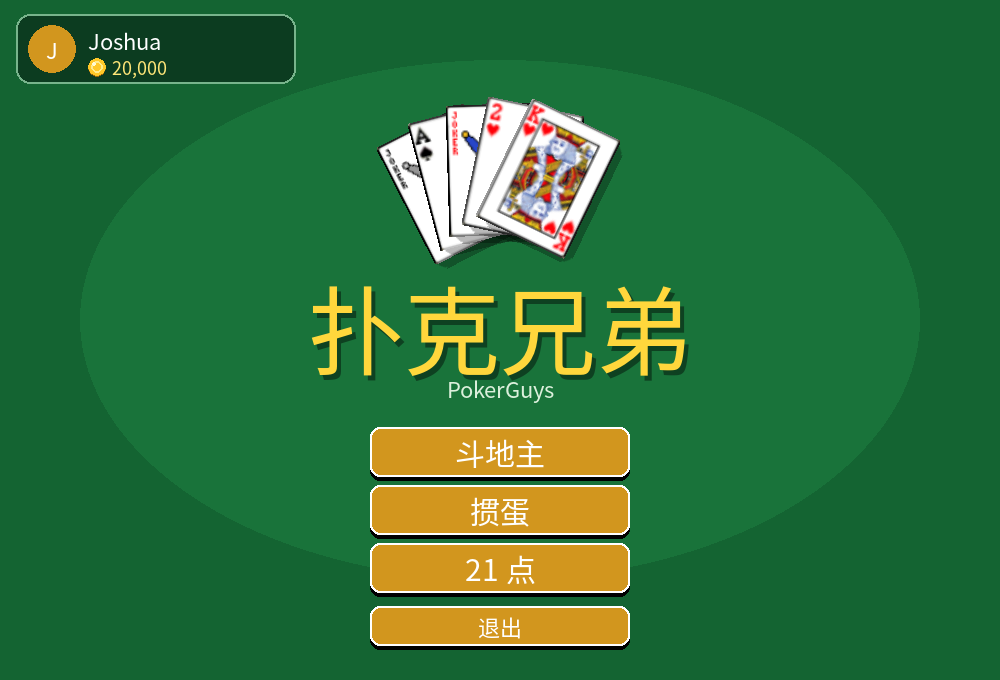
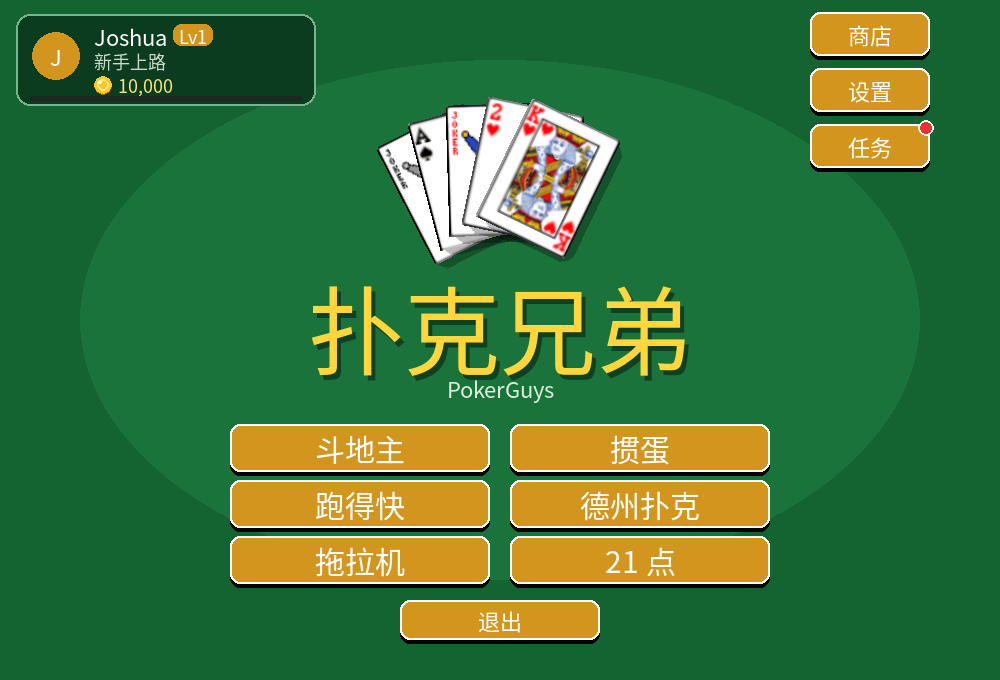
README：1.3.0 —— 新玩法跑得快 / 德州扑克 / 拖拉机，房间号远程联机，任务成就，托管回放设置
Claude-Session: https://claude.ai/code/session_01Fzpb35NiXPgBRbh9vYEudx

Changed region(s): [[0.217, 0.6176, 0.775, 0.9574], [0.806, 0.0, 0.93, 0.2779], [0.0, 0.0, 0.341, 0.1544]]

diff --git a/README.md b/README.md
@@ -4,9 +4,9 @@
 
 # 扑克兄弟 PokerGuys
 
-**斗地主 · 掼蛋 · 21 点 —— 一个装下三种玩法的扑克游戏**
+**斗地主 · 掼蛋 · 跑得快 · 德州扑克 · 升级（拖拉机）· 21 点 —— 六种玩法一个游戏**
 
-单机打电脑，或者和同一个 WiFi 下的朋友联机
+单机打电脑，或者用房间号和天南地北的朋友联机
 
 [![最新版本](https://img.shields.io/github/v/release/JoshuaMaoJH/PokerGuys-releases?label=最新版本&color=d4a017)](https://github.com/JoshuaMaoJH/PokerGuys-releases/releases/latest)
 [![下载次数](https://img.shields.io/github/downloads/JoshuaMaoJH/PokerGuys-releases/total?label=下载次数&color=2e8b57)](https://github.com/JoshuaMaoJH/PokerGuys-releases/releases)
@@ -20,7 +20,9 @@
 
 ---
 
-## 🃏 三种玩法
+## 🃏 六种玩法
+
+第一次进每个玩法都会弹出图文**新手教程**，之后随时可以在玩法页点「玩法说明」再看。
 
 ### 斗地主
 
@@ -32,7 +34,7 @@
   - **简单**：出牌随心所欲，适合练手
   - **普通**：会配合队友，懂得留炸弹和大牌
   - **困难**：会记牌，残局会推演每一种出法
-- 支持 3 人局域网联机，人不够电脑补上
+- 支持 3 人联机（房间号远程联机，或者同一个 WiFi），人不够电脑补上
 
 ### 掼蛋
 
@@ -45,6 +47,31 @@
   - 进贡、还贡、抗贡
 - 单机：你和 3 个电脑打；联机：4 人一桌，人不够电脑补上
 
+### 跑得快
+
+<img src="docs/paodekuai.png" width="640" alt="跑得快">
+
+- 经典 16 张玩法：一副牌去掉大小王、三个 2 和黑桃 A，三人各打各的
+- **有大必压**、下家**报单**要出最大的单张、最后一手可以少带
+- 剩几张输几倍底注，被**关门**（一张没出）翻倍，炸弹另外收钱
+
+### 德州扑克
+
+<img src="docs/texas.png" width="640" alt="德州扑克">
+
+- 无限注德州：你和 4 个性格不同的电脑（有的紧有的松，有的爱诈唬）
+- 4 张牌桌，盲注从 10/20 到 1,000/2,000，每手最多带 100 个大盲上桌
+- 完整的全下和**边池**规则，电脑按真实胜率算该跟还是该弃
+
+### 升级（拖拉机）
+
+<img src="docs/tuolaji.png" width="640" alt="升级（拖拉机）">
+
+- 两副牌四个人，你和对家一队；从 2 打到 A
+- 发牌时**亮主 / 反主**，庄家**扣底**，跟牌要跟对子、跟拖拉机，没有这门可以用主牌毙
+- 闲家抓够 80 分上台；最后一轮闲家赢了，底牌分翻倍
+- 简化：不能甩牌、不打无主
+
 ### 21 点
 
 <img src="docs/blackjack.png" width="640" alt="21点">
@@ -54,7 +81,7 @@
 
 ## 💰 金币和钱庄
 
-- 新玩家送 **10,000 金币**，三种玩法共用一个钱包
+- 新玩家送 **10,000 金币**，所有玩法共用一个钱包
 - 每局开始前自己选底注，赢了拿走别人的注，输了赔给赢家
 - 斗地主里叫的分和炸弹会让输赢翻倍，翻倍在结算时才算
 - 输光了可以去主菜单左上角的**钱庄**借钱。借了要还，**每打一局利息涨 3%**（利滚利）；之后赢了钱会自动拿一半还债
@@ -70,8 +97,25 @@
 - **等级 Lv1～10**：打一局 +10 经验，赢了再 +20；也可以花金币直接升级。每升一级都送金币，还会解锁新商品
 - **牌背** 6 款、**桌布** 5 款、**头像框** 6 款、**称号** 6 个（满级才能买「赌神」）
 - **特效**：出牌拖尾（火花 / 彩虹）、炸弹特效（烟花 / 金币）、胜利特效（彩带 / 金币瀑布）
+- **道具 · 记牌器**：打牌时显示外面每种牌还剩几张（10 局 / 50 局装，可以随时开关）
 - 联机时，别人能看到你的牌背、头像框、称号和等级
 - 欠着钱庄的钱时不能买东西，先还债
+
+## 📅 签到、任务和成就
+
+<img src="docs/quests.png" width="640" alt="任务">
+
+- **每日签到**：连签 7 天奖励越来越多（第 7 天 1,500 金币）
+- **每日任务**：每天 3 个，比如「当地主赢 1 局」「打出 1 个炸弹」，做完点领取
+- **成就**：15 个，像「春天来了」「全下赢了」「全勤奖」；有的还送商店里买不到的**专属称号**
+- 主菜单「任务」按钮上有小红点，就是有奖励能领
+
+## ⚙ 其他
+
+- **托管**：右上角「托管」，电脑替你打，随时取消
+- **回放**：一局打完点「回放」，一步步重看这局谁出了什么（← → 翻步，空格自动播放）
+- **设置**：音效音量、背景音乐（自带一首轻松的循环曲）、动画速度（正常 / 快 / 很快）
+- **手机版**手牌放大了，更好点
 
 ## ⬇ 下载哪个？
 
@@ -100,17 +144,26 @@
 | 叫分（斗地主） | 点按钮 | `0` `1` `2` `3` |
 | 要牌 / 停牌 / 加倍（21 点） | 点按钮 | `H` / `S` / `D` |
 | 再来一局 | 点按钮 | `R` |
+| 弃牌 / 跟注 / 全下（德州） | 点按钮 | `F` / `C` 或 `空格` / `A` |
 
 **手机上：** 点牌选中/放下；**手指快速划过**一排牌，划过的牌一起选上（或一起放下）；**按住一张牌不动半秒再拖**，可以把它挪到别的位置；点桌面空白处把选中的牌全放下；返回键 = `Esc`。
 
-## 🌐 联机
+## 🌐 联机（斗地主、掼蛋）
 
-1. 所有人连**同一个 WiFi / 局域网**
-2. 一个人选好玩法后点「联机」→「创建房间」，屏幕上会显示要输入的地址
-3. 其他人点「联机」→「加入房间」，输入这个地址
-4. 人齐了（或者不想等了，空位电脑补），房主点「开始游戏」
+**远程联机（在哪都能玩）**
 
-联机用的端口：斗地主 `23456`，掼蛋 `23457`。电脑弹出防火墙提示时，选「允许」。
+1. 一个人选好玩法后点「联机」→「远程联机」那一栏的「开房间」，会拿到一个 **4 位房间号**
+2. 把房间号发给朋友；朋友进同一个玩法的「联机」，输入房间号点「加入」
+3. 人齐了（或者不想等了，空位电脑补），房主点「开始游戏」
+
+**同一个 WiFi（不走外网，延迟最低）**
+
+1. 所有人连同一个 WiFi / 局域网
+2. 一个人点「同一个 WiFi」那一栏的「开房间」，屏幕上会显示他的局域网 IP
+3. 其他人输入这个 IP 点「加入」
+
+联机时每一手限时 20 秒，超时自动托管；可以发快捷短语和扔表情（鲜花、鸡蛋、炸弹……）。
+局域网联机用的端口：斗地主 `23456`，掼蛋 `23457`。电脑弹出防火墙提示时，选「允许」。
 
 ## ❓ 常见问题
 
@@ -142,7 +195,7 @@ xattr -cr /Applications/PokerGuys.app
 <details>
 <summary><b>存档在哪？换电脑怎么带走？</b></summary>
 
-存档就是一个 `profile.json`，里面有你的名字、金币和欠款：
+存档就是一个 `profile.json`，里面有你的名字、金币、欠款、买的东西和任务进度：
 
 - Windows：`%APPDATA%\PokerGuys\`
 - mac：`~/Library/Application Support/PokerGuys/`
